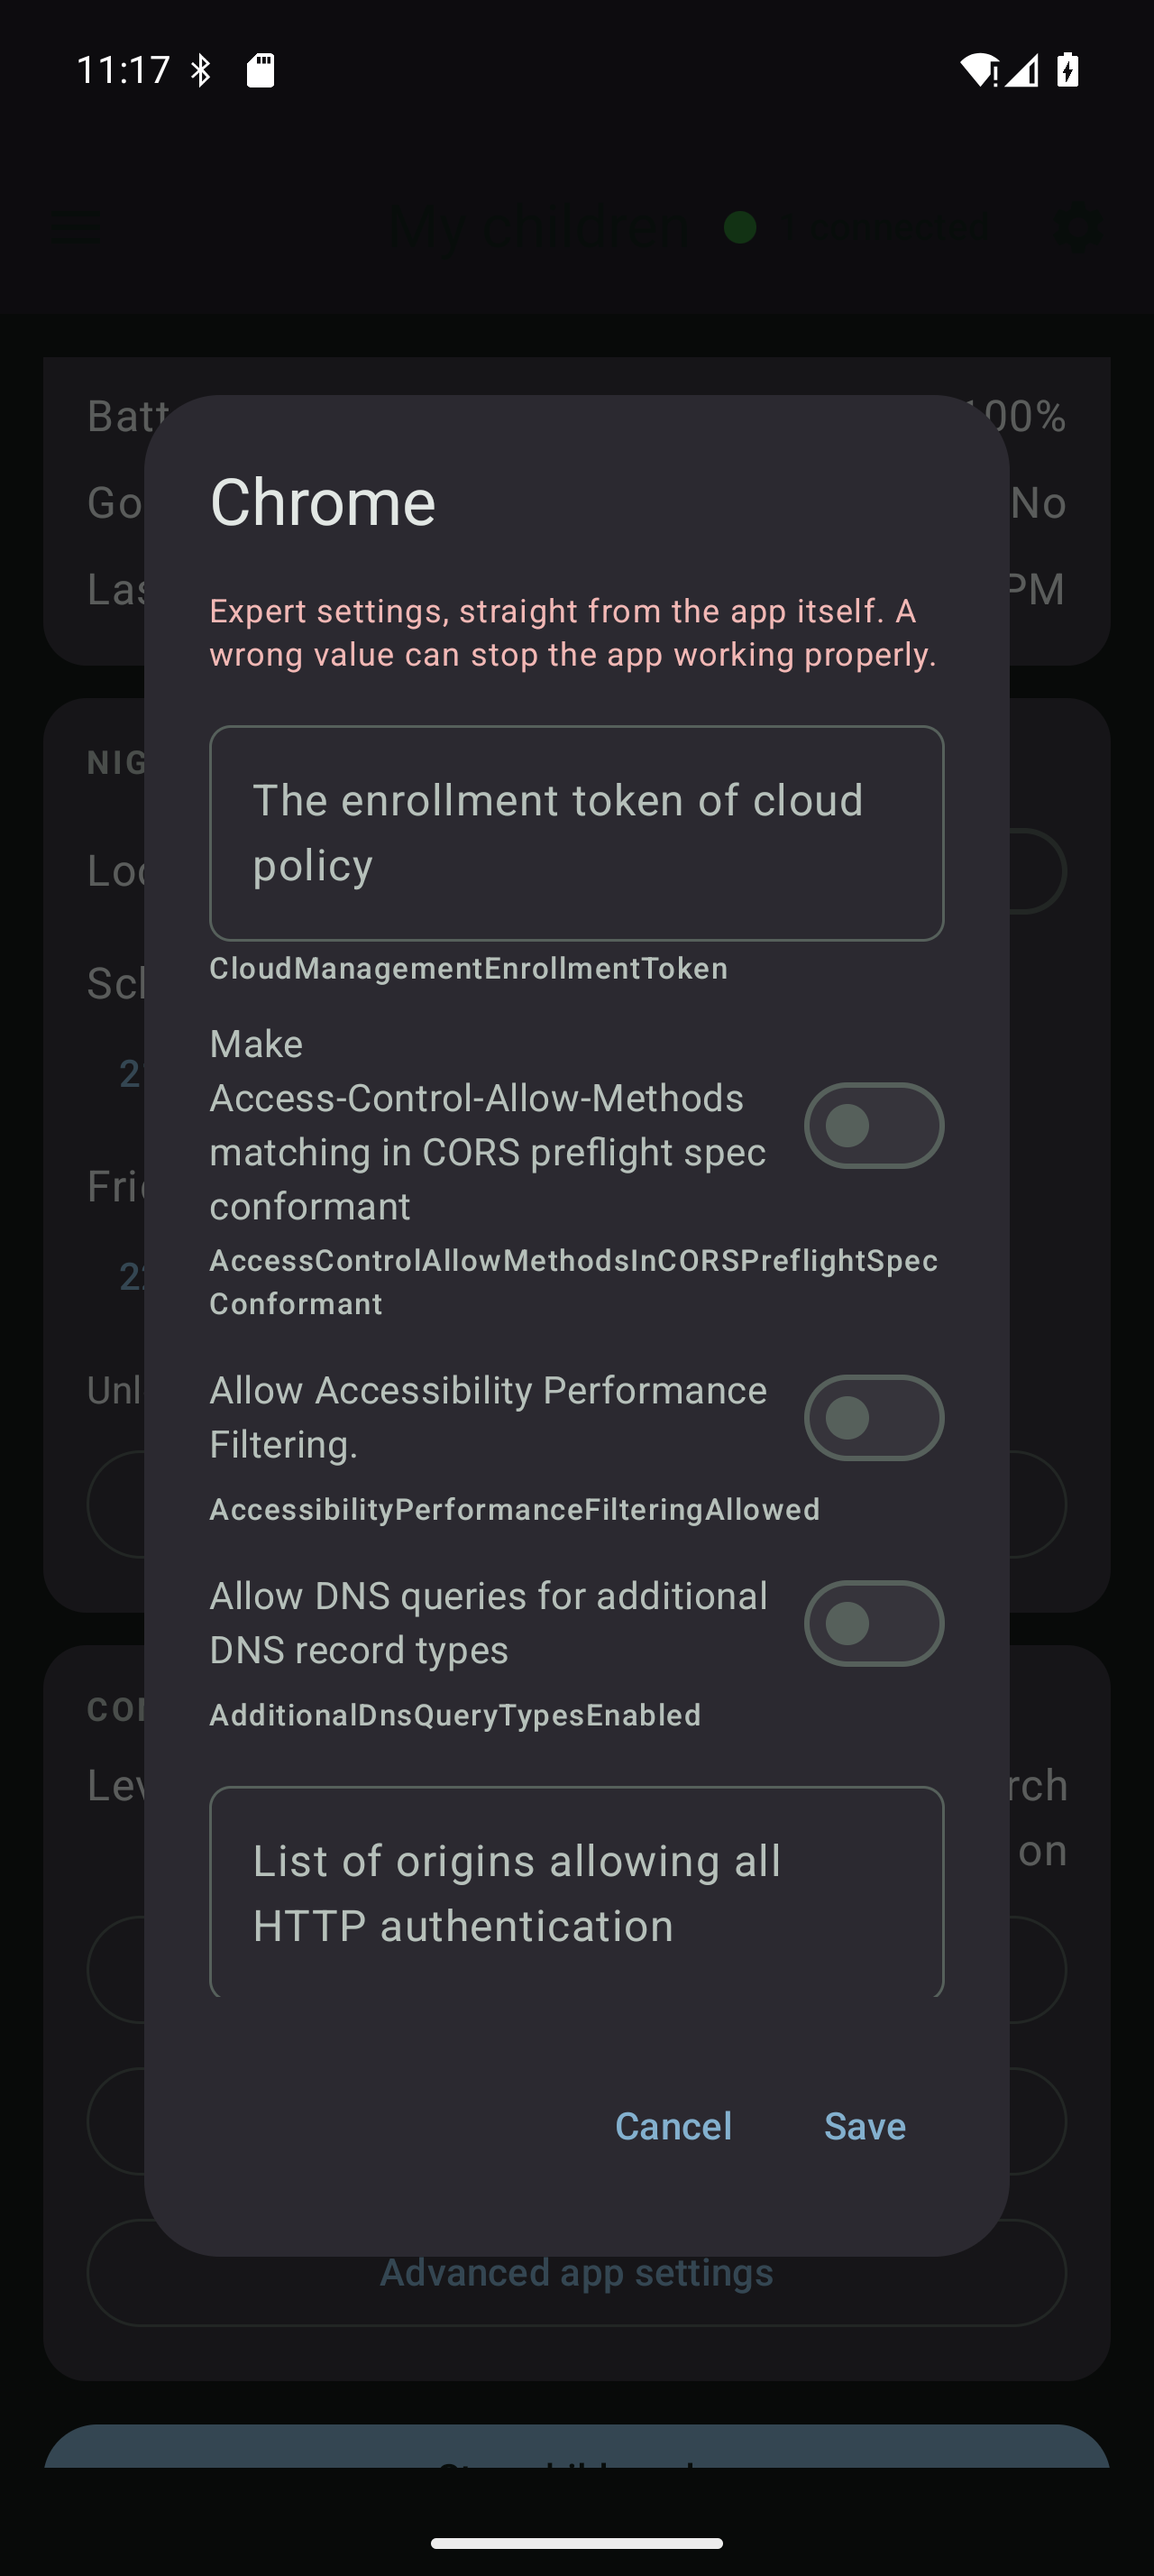
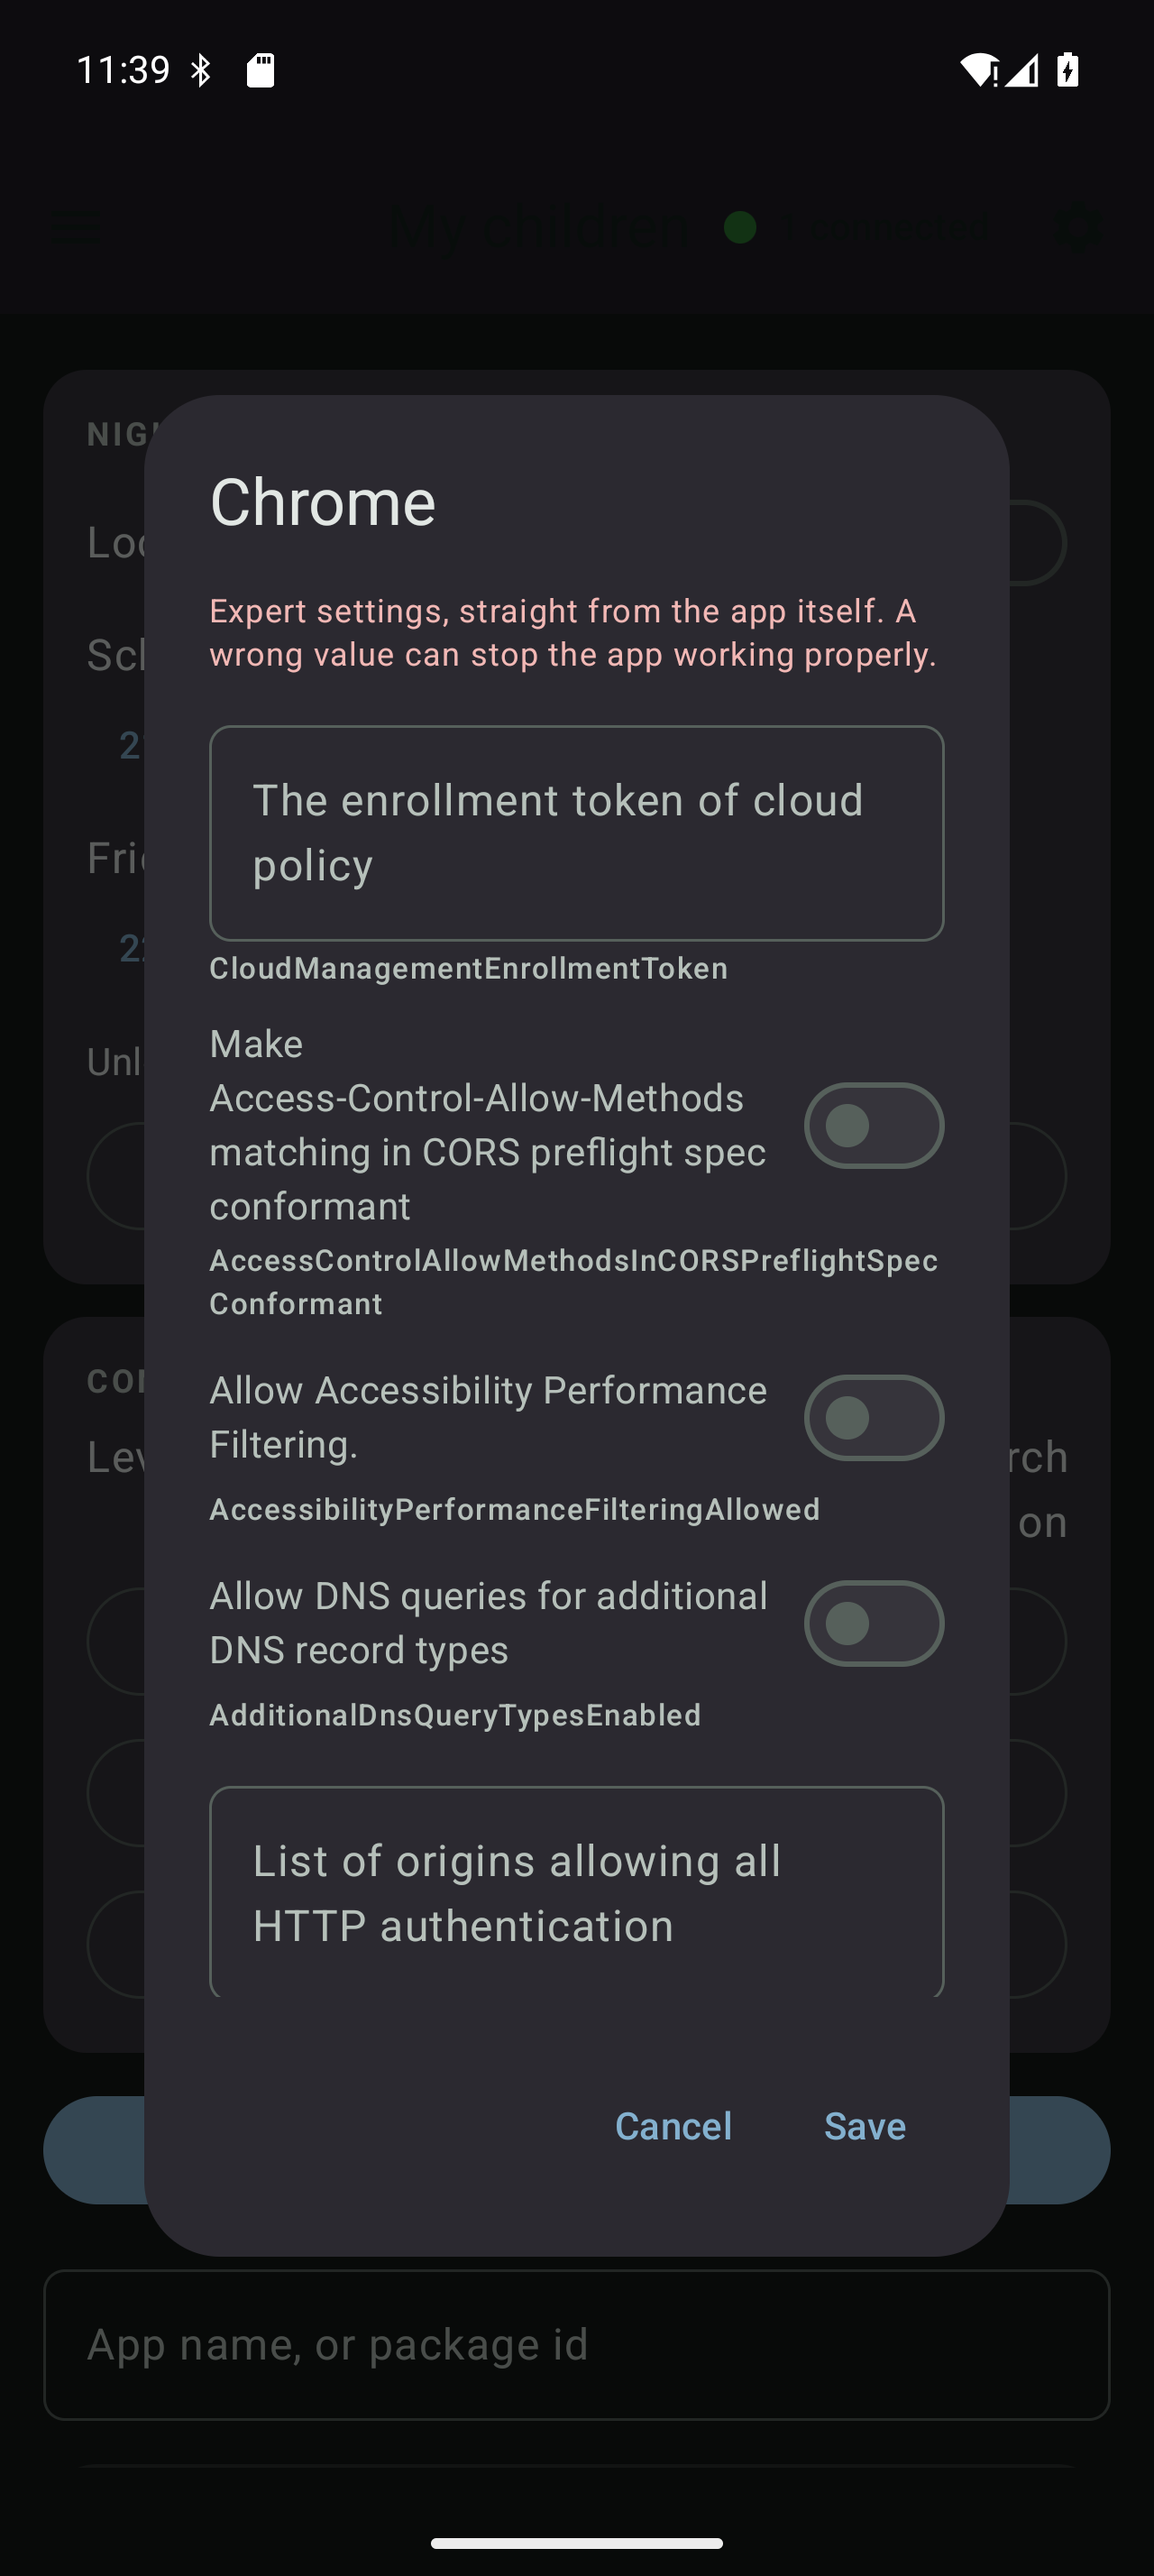
fix: show that the app's settings are being fetched, instead of nothing
Picking an app in "Which app?" closed the picker and left the page unchanged
for several seconds — Chrome declares hundreds of settings and the answer
crosses a BLE link — so the tap looked ignored and the obvious response was to
press "Advanced app settings" again.

There was a loading state, but it was a bare Text dropped outside any dialog,
so it rendered somewhere nothing was looking. It is a proper dialog now: the
app's name, a spinner, and a Cancel, up within a second of the tap.

Screenshots of the picker, the form and the content dialog re-captured, since
the earlier ones were taken before the label/value alignment fix and showed the
old collision behind the scrim.

diff --git a/app/src/main/java/edu/fnosari/momedm/activities/main/components/AppConfigDialog.kt b/app/src/main/java/edu/fnosari/momedm/activities/main/components/AppConfigDialog.kt
@@ -11,6 +11,7 @@ import androidx.compose.foundation.text.KeyboardOptions
 import androidx.compose.foundation.verticalScroll
 import androidx.compose.material3.AlertDialog
 import androidx.compose.material3.Checkbox
+import androidx.compose.material3.CircularProgressIndicator
 import androidx.compose.material3.MaterialTheme
 import androidx.compose.material3.OutlinedTextField
 import androidx.compose.material3.RadioButton
@@ -85,6 +86,29 @@ fun AppConfigDialog(
                 onClick = { onConfirm(JsonObject(current + edits)) },
             ) { Text(stringResource(R.string.settings_dialog_confirm)) }
         },
+        dismissButton = { TextButton(onClick = onDismiss) { Text(stringResource(R.string.settings_dialog_dismiss)) } },
+    )
+}
+
+/**
+ * Shown while the child is being asked what an app declares.
+ *
+ * This is not instant: Chrome declares hundreds of settings and the answer crosses a BLE link, which
+ * takes a few seconds. Without a dialog here the picker simply closed and nothing appeared, so the
+ * parent concluded their tap had not registered and pressed the button again.
+ */
+@Composable
+fun AppConfigLoadingDialog(label: String, onDismiss: () -> Unit) {
+    AlertDialog(
+        onDismissRequest = onDismiss,
+        title = { Text(label) },
+        text = {
+            Row(verticalAlignment = Alignment.CenterVertically, horizontalArrangement = Arrangement.spacedBy(16.dp)) {
+                CircularProgressIndicator()
+                Text(stringResource(R.string.appcfg_loading), style = MaterialTheme.typography.bodyMedium)
+            }
+        },
+        confirmButton = {},
         dismissButton = { TextButton(onClick = onDismiss) { Text(stringResource(R.string.settings_dialog_dismiss)) } },
     )
 }

diff --git a/app/src/main/java/edu/fnosari/momedm/activities/main/screens/DeviceScreen.kt b/app/src/main/java/edu/fnosari/momedm/activities/main/screens/DeviceScreen.kt
@@ -37,6 +37,7 @@ import edu.fnosari.momedm.R
 import edu.fnosari.momedm.activities.main.ControllerViewModel
 import edu.fnosari.momedm.activities.main.components.AppPickerDialog
 import edu.fnosari.momedm.activities.main.components.AppConfigDialog
+import edu.fnosari.momedm.activities.main.components.AppConfigLoadingDialog
 import edu.fnosari.momedm.activities.main.components.SafetyDialog
 import kotlinx.serialization.json.JsonObject
 import edu.fnosari.momedm.protocol.SafetyConfig
@@ -199,7 +200,7 @@ fun DeviceScreen(navController: NavHostController, viewModel: ControllerViewMode
     }
     schema?.let { (id, pkg, entries) ->
         if (id == deviceId) {
-            if (entries == null) Text(stringResource(R.string.appcfg_loading))
+            if (entries == null) AppConfigLoadingDialog(configAppLabel.ifBlank { pkg }) { viewModel.clearSchema() }
             else AppConfigDialog(
                 label = configAppLabel.ifBlank { pkg },
                 entries = entries,
